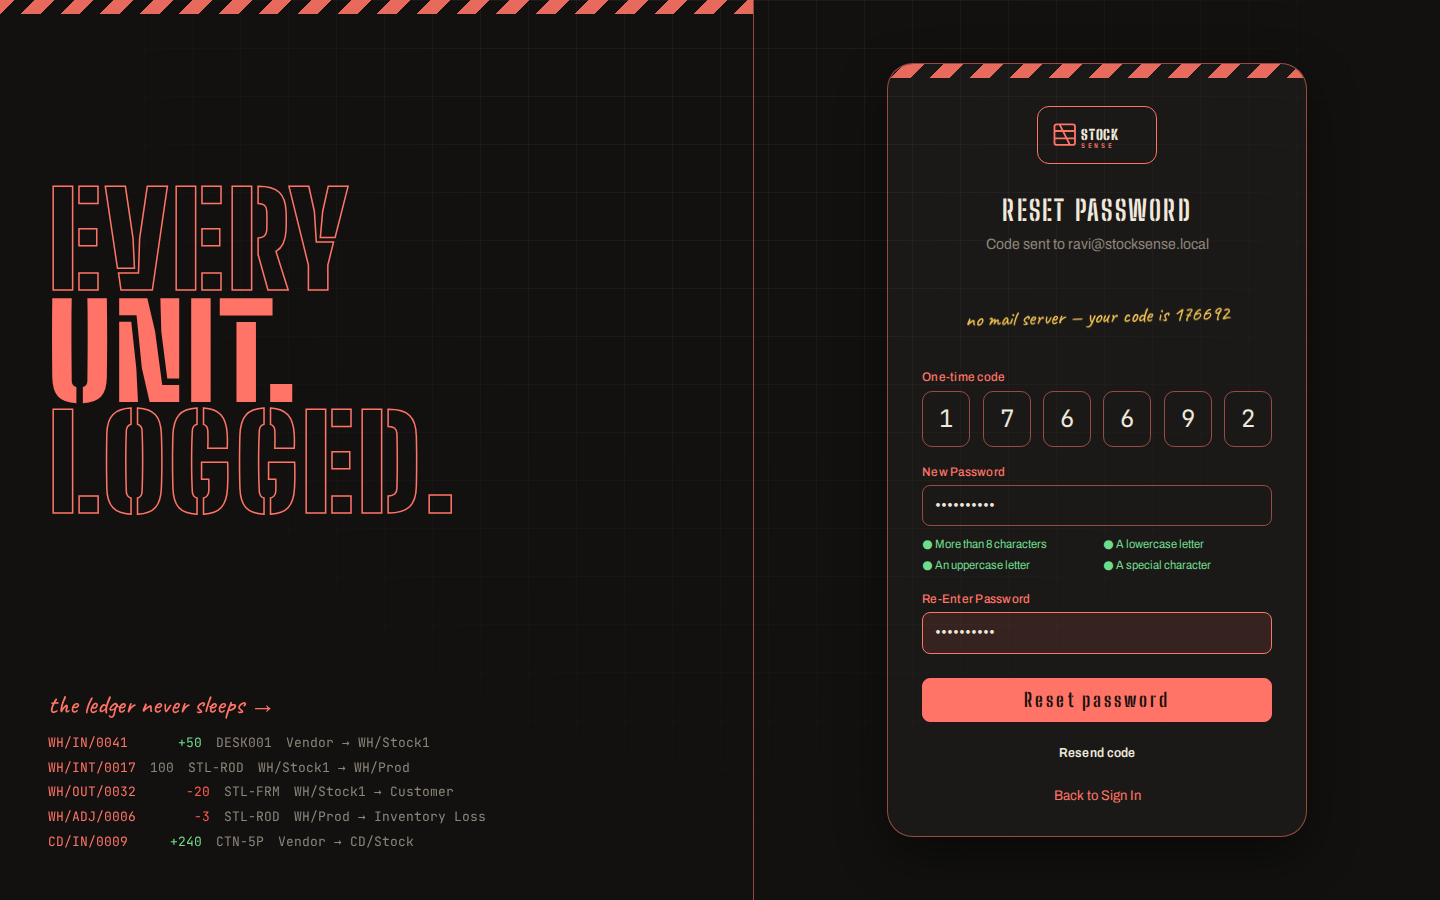
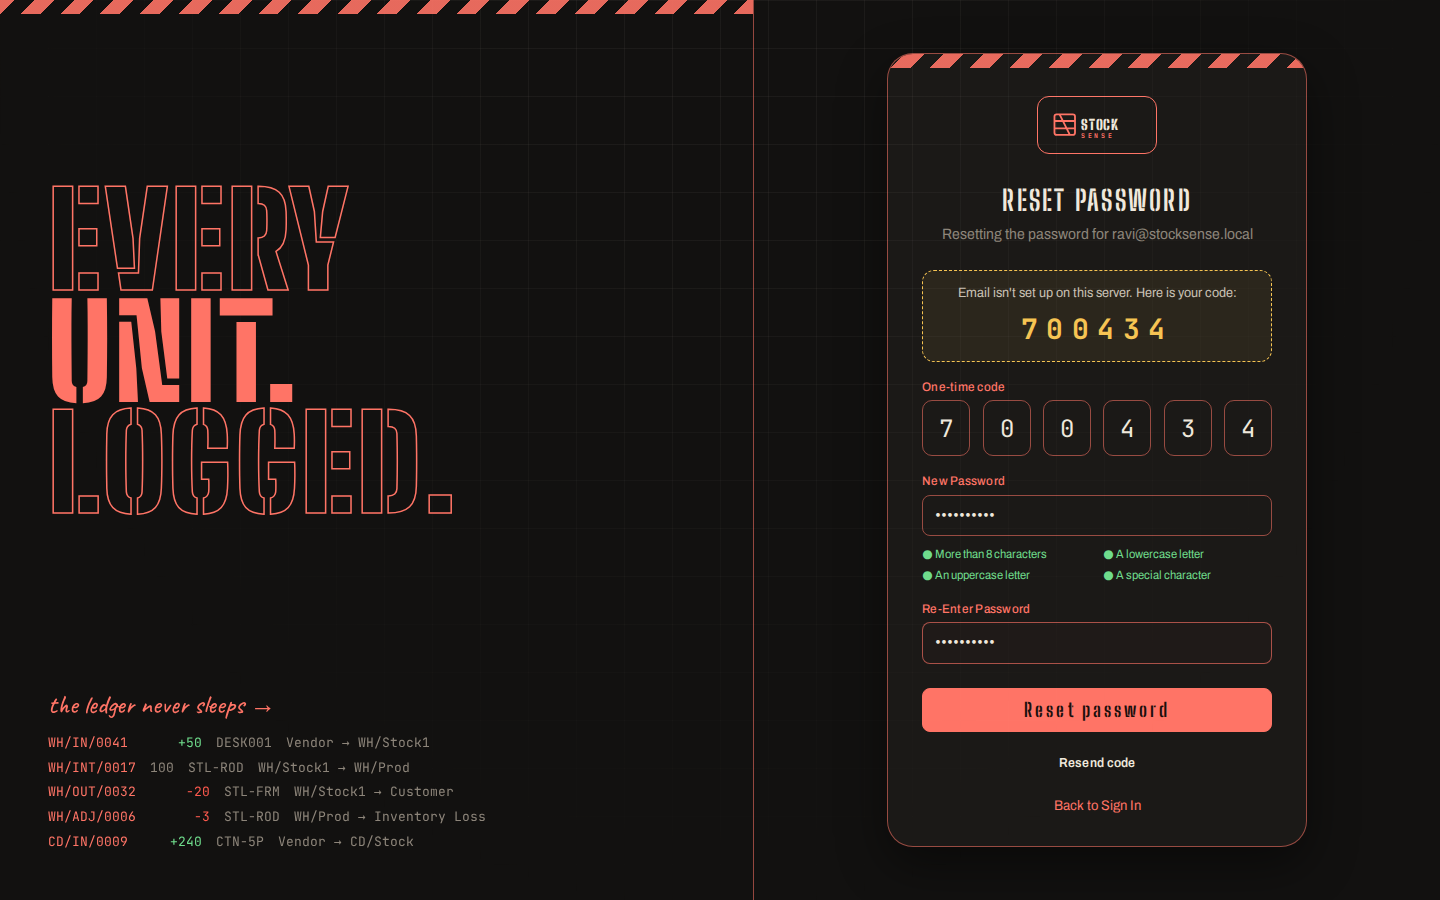
Password reset: send real emails via Brevo API, clearer on-screen code, unknown-email error
- Brevo HTTPS API support (BREVO_API_KEY + MAIL_FROM) since Render's free plan
  blocks SMTP ports; SMTP still supported
- On-screen code is now a prominent notice instead of a small handwritten line
- Unknown email returns 'No account uses that email' instead of a silent success
- README: email setup steps, note that free-demo signups reset on redeploy

diff --git a/server/src/services/mailer.js b/server/src/services/mailer.js
@@ -1,8 +1,8 @@
 import nodemailer from 'nodemailer';
 
-const { SMTP_HOST, SMTP_PORT, SMTP_USER, SMTP_PASS, MAIL_FROM } = process.env;
+const { SMTP_HOST, SMTP_PORT, SMTP_USER, SMTP_PASS, MAIL_FROM, BREVO_API_KEY } = process.env;
 
-const transport = SMTP_HOST
+const smtp = SMTP_HOST
   ? nodemailer.createTransport({
     host: SMTP_HOST,
     port: Number(SMTP_PORT) || 587,
@@ -11,23 +11,48 @@ const transport = SMTP_HOST
   })
   : null;
 
-// Returns true when the mail actually went out; otherwise logs the OTP for local use.
+export const mailConfigured = Boolean(BREVO_API_KEY || smtp);
+
+const subject = (otp) => `StockSense reset code: ${otp}`;
+const text = (otp) => `Your StockSense password reset code is ${otp}. It expires in 10 minutes.`;
+const html = (otp) => `<div style="font-family:monospace;font-size:16px">
+  <p>Your StockSense password reset code:</p>
+  <p style="font-size:32px;letter-spacing:8px;font-weight:bold">${otp}</p>
+  <p>It expires in 10 minutes. If you didn't ask for this, ignore this mail.</p></div>`;
+
+// "Name <email>" or "email" → { name, email }
+const parseFrom = (from) => {
+  const m = /^\s*(.*?)\s*<([^>]+)>\s*$/.exec(from || '');
+  return m ? { name: m[1] || 'StockSense', email: m[2] } : { name: 'StockSense', email: (from || '').trim() };
+};
+
+// Brevo's HTTPS API works on hosts that block outbound SMTP ports (e.g. Render's free plan).
+async function sendViaBrevo(to, otp) {
+  const res = await fetch('https://api.brevo.com/v3/smtp/email', {
+    method: 'POST',
+    headers: { 'api-key': BREVO_API_KEY, 'content-type': 'application/json', accept: 'application/json' },
+    body: JSON.stringify({
+      sender: parseFrom(MAIL_FROM || SMTP_USER),
+      to: [{ email: to }],
+      subject: subject(otp),
+      textContent: text(otp),
+      htmlContent: html(otp),
+    }),
+    signal: AbortSignal.timeout(10000),
+  });
+  if (!res.ok) throw new Error(`Brevo ${res.status}: ${(await res.text()).slice(0, 200)}`);
+}
+
+// Returns true when the mail actually went out; otherwise logs the OTP so the flow still works.
 export async function sendOtpMail(to, otp) {
-  if (!transport) {
-    console.log(`\n  [otp] ${to} → ${otp}  (set SMTP_* in .env to email it)\n`);
+  if (!mailConfigured) {
+    console.log(`\n  [otp] ${to} → ${otp}  (set BREVO_API_KEY or SMTP_* to email it)\n`);
     return false;
   }
   try {
-    await transport.sendMail({
-      from: MAIL_FROM || SMTP_USER,
-      to,
-      subject: `StockSense reset code: ${otp}`,
-      text: `Your StockSense password reset code is ${otp}. It expires in 10 minutes.`,
-      html: `<div style="font-family:monospace;font-size:16px">
-        <p>Your StockSense password reset code:</p>
-        <p style="font-size:32px;letter-spacing:8px;font-weight:bold">${otp}</p>
-        <p>It expires in 10 minutes. If you didn't ask for this, ignore this mail.</p></div>`,
-    });
+    if (BREVO_API_KEY) await sendViaBrevo(to, otp);
+    else await smtp.sendMail({ from: MAIL_FROM || SMTP_USER, to, subject: subject(otp), text: text(otp), html: html(otp) });
+    console.log(`[otp] emailed reset code to ${to}`);
     return true;
   } catch (err) {
     console.error('[otp] mail failed:', err.message, `→ code for ${to}: ${otp}`);

diff --git a/server/src/routes/auth.js b/server/src/routes/auth.js
@@ -5,7 +5,7 @@ import { z } from 'zod';
 import { db } from '../db.js';
 import { signToken, requireAuth } from '../middleware/auth.js';
 import { parse, fail } from '../middleware/error.js';
-import { sendOtpMail } from '../services/mailer.js';
+import { sendOtpMail, mailConfigured } from '../services/mailer.js';
 
 const router = Router();
 
@@ -61,16 +61,19 @@ router.post('/login', (req, res) => {
 router.post('/forgot-password', async (req, res) => {
   const { email } = parse(z.object({ email: z.string().trim().toLowerCase().email('Enter a valid email') }), req.body);
   const user = db.prepare('SELECT * FROM users WHERE email = ?').get(email);
-  const response = { message: 'If that email is registered, an OTP is on its way.' };
-  if (user) {
-    const otp = String(crypto.randomInt(100000, 1000000));
-    db.prepare('UPDATE password_resets SET used = 1 WHERE user_id = ? AND used = 0').run(user.id);
-    db.prepare(`INSERT INTO password_resets (user_id, otp_hash, expires_at)
-                VALUES (?, ?, datetime('now', '+10 minutes'))`).run(user.id, bcrypt.hashSync(otp, 8));
-    const delivered = await sendOtpMail(user.email, otp);
-    // Without SMTP we surface the code so the flow stays demoable (set OTP_FALLBACK=off to disable).
-    if (!delivered && process.env.OTP_FALLBACK !== 'off') response.devOtp = otp;
-  }
+  if (!user) fail(404, 'No account uses that email. Check the spelling or sign up first.', { email: 'No account uses that email' });
+  const otp = String(crypto.randomInt(100000, 1000000));
+  db.prepare('UPDATE password_resets SET used = 1 WHERE user_id = ? AND used = 0').run(user.id);
+  db.prepare(`INSERT INTO password_resets (user_id, otp_hash, expires_at)
+              VALUES (?, ?, datetime('now', '+10 minutes'))`).run(user.id, bcrypt.hashSync(otp, 8));
+  const delivered = await sendOtpMail(user.email, otp);
+  const response = {
+    delivered,
+    message: delivered ? `Code sent to ${user.email}. Check your inbox (and spam).`
+      : mailConfigured ? "Couldn't send the email right now." : "Email isn't set up on this server.",
+  };
+  // Without email we surface the code so the flow stays usable (set OTP_FALLBACK=off to disable).
+  if (!delivered && process.env.OTP_FALLBACK !== 'off') response.devOtp = otp;
   res.json(response);
 });
 

diff --git a/client/src/pages/Auth.jsx b/client/src/pages/Auth.jsx
@@ -197,6 +197,7 @@ export function Forgot() {
   const [step, setStep] = useState(1);
   const [email, setEmail] = useState('');
   const [devOtp, setDevOtp] = useState('');
+  const [notice, setNotice] = useState('');
   const [form, setForm] = useState({ otp: Array(6).fill(''), password: '', confirmPassword: '' });
   const [errors, setErrors] = useState({});
   const [error, setError] = useState('');
@@ -210,8 +211,9 @@ export function Forgot() {
     try {
       const r = await api.post('/auth/forgot-password', { email });
       setDevOtp(r.devOtp || '');
+      setNotice(r.message);
       setStep(2);
-      toast(r.message, 'ok', 'OTP sent');
+      toast(r.message, r.delivered ? 'ok' : 'warn', r.delivered ? 'Code sent' : 'Heads up');
     } catch (err) { setError(err.message); } finally { setBusy(false); }
   };
 
@@ -231,7 +233,7 @@ export function Forgot() {
   };
 
   return (
-    <AuthShell title="Reset password" sub={step === 1 ? 'We’ll send a one-time code to your email' : `Code sent to ${email}`}>
+    <AuthShell title="Reset password" sub={step === 1 ? 'We’ll send a one-time code to your email' : `Resetting the password for ${email}`}>
       {step === 1 ? (
         <form onSubmit={request} noValidate>
           {error && <div className="formerr" role="alert">{error}</div>}
@@ -243,7 +245,12 @@ export function Forgot() {
       ) : (
         <form onSubmit={reset} noValidate>
           {error && <div className="formerr" role="alert">{error}</div>}
-          {devOtp && <p className="devnote">no mail server — your code is {devOtp}</p>}
+          {devOtp ? (
+            <div className="otpnotice" role="status">
+              <span>{notice} Here is your code:</span>
+              <b>{devOtp}</b>
+            </div>
+          ) : <p className="muted" style={{ margin: 0, fontSize: 13.5 }}>We emailed a 6-digit code to <b>{email}</b>. Check spam if you don't see it.</p>}
           <Field label="One-time code" error={errors?.otp}>
             <OtpBoxes value={form.otp} onChange={(otp) => setForm({ ...form, otp })} />
           </Field>

diff --git a/client/src/styles.css b/client/src/styles.css
@@ -737,3 +737,7 @@ tr:hover .pencil { opacity: 1; }
 .live.reconnecting { color: var(--amber); }
 .live.reconnecting i { background: var(--amber); animation: blink 1s infinite; }
 @keyframes ping { from { box-shadow: 0 0 0 0 color-mix(in srgb, var(--in) 70%, transparent); } to { box-shadow: 0 0 0 10px transparent; } }
+
+/* Password reset: code shown on screen when the server can't email it */
+.otpnotice { border: 1.5px dashed var(--amber); border-radius: 12px; padding: 12px 14px; display: flex; flex-direction: column; gap: 6px; align-items: center; text-align: center; font-size: 13.5px; color: var(--ink-2); background: color-mix(in srgb, var(--amber) 8%, transparent); }
+.otpnotice b { font-family: var(--f-mono); font-size: 28px; letter-spacing: 0.3em; color: var(--amber); }

diff --git a/README.md b/README.md
@@ -17,24 +17,22 @@ Open it in two windows side by side to watch changes appear live.
    - [Sign in, sign up, reset password](#1-sign-in-sign-up-reset-password)
    - [Getting around](#2-getting-around)
    - [Dashboard](#3-dashboard)
-   - [Receipts: receive goods](#4-receipts--receive-goods-from-a-vendor)
-   - [Deliveries: ship goods](#5-deliveries--ship-goods-to-a-customer)
-   - [Internal transfers](#6-internal-transfers--move-stock-between-locations)
-   - [Adjustments: fix a count](#7-adjustments--fix-a-mismatch-after-a-physical-count)
+   - [Receipts: receive goods](#4-receipts-receive-goods-from-a-vendor)
+   - [Deliveries: ship goods](#5-deliveries-ship-goods-to-a-customer)
+   - [Internal transfers](#6-internal-transfers-move-stock-between-locations)
+   - [Adjustments: fix a count](#7-adjustments-fix-a-mismatch-after-a-physical-count)
    - [Cancel or delete an operation](#8-cancel-or-delete-an-operation)
    - [Products & stock: add, update, edit, delete](#9-products--stock)
    - [Move history](#10-move-history-the-stock-ledger)
-   - [Settings: warehouses & locations](#11-settings--warehouses--locations)
+   - [Settings: warehouses & locations](#11-settings-warehouses--locations)
    - [Profile, theme, logout](#12-profile-theme-logout)
    - [Real-time updates](#13-real-time-updates)
 3. [Status & button reference](#status--button-reference)
 4. [Rules the system enforces](#rules-the-system-enforces)
-5. [5-minute demo script](#5-minute-demo-script)
-6. [Run it locally](#run-it-locally)
-7. [Deploy](#deploy)
-8. [How it works](#how-it-works)
-9. [Tech stack & project structure](#tech-stack--project-structure)
-10. [Testing](#testing)
+5. [Run it locally](#run-it-locally)
+6. [How it works](#how-it-works)
+7. [Tech stack & project structure](#tech-stack--project-structure)
+8. [Testing](#testing)
 
 ---
 
@@ -84,8 +82,12 @@ The rules are checked as you type and again on the server:
 3. Enter the 6-digit code (valid for 10 minutes, 5 attempts), type a new password twice and click **Reset password**.
 4. Sign in with the new password. The old password and the used code stop working.
 
-> If no mail server is configured, the code is shown on the reset screen (the yellow note) and printed in the
-> server console, so the flow always works in a demo. Add `SMTP_*` settings to send it by email.
+> **Email vs on-screen code:** when email is set up (`BREVO_API_KEY` or `SMTP_*` settings) the
+> code arrives in your inbox. Otherwise it's shown in a yellow box on the reset screen, so the flow always works.
+> Unknown emails get a clear *"No account uses that email"* message.
+>
+> On the free live demo, accounts you sign up are erased whenever the server restarts or redeploys. Sign up
+> again, or use `admin01` / `Admin@1234`.
 
 | Step 1: request the code | Step 2: enter code + new password |
 |---|---|
@@ -430,7 +432,7 @@ server/src
   db.js                 schema
   services/stock.js     the engine: references, availability, confirm/check/validate/cancel, stock counts
   services/events.js    real-time broadcast (Server-Sent Events)
-  services/mailer.js    OTP email (falls back to on-screen code)
+  services/mailer.js    OTP email via Brevo API or SMTP (falls back to on-screen code)
   routes/               auth · masters (warehouses, locations, categories, products) · operations · moves · dashboard
   seed.js               demo data played through the real engine
   start.js              production entry: seeds a fresh database, then starts the API
